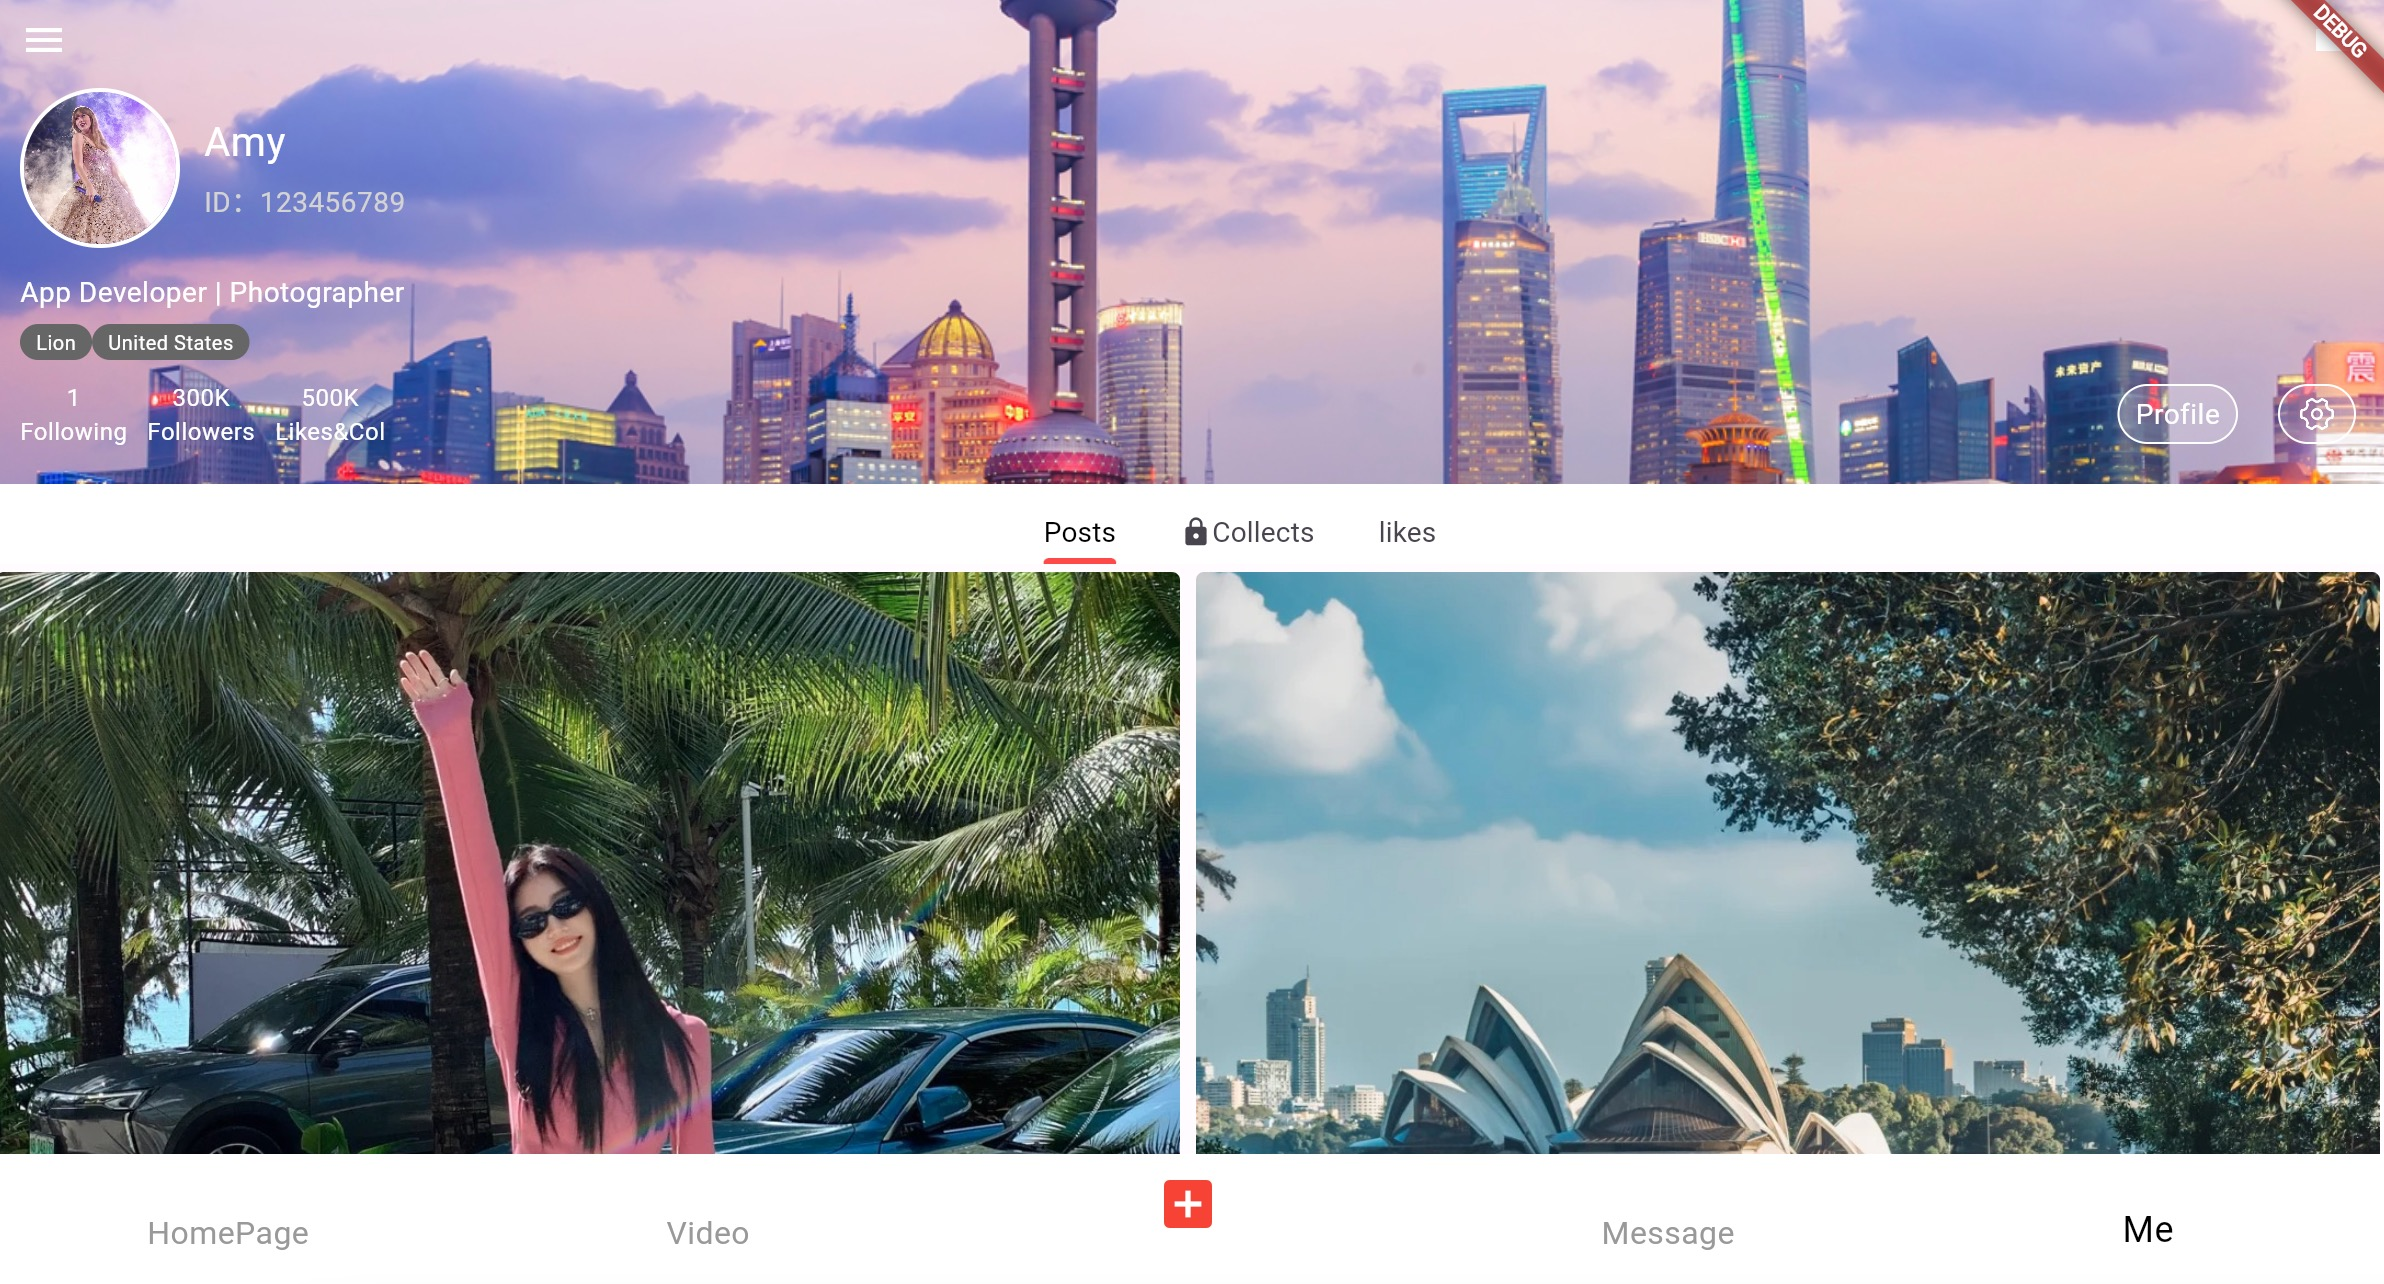
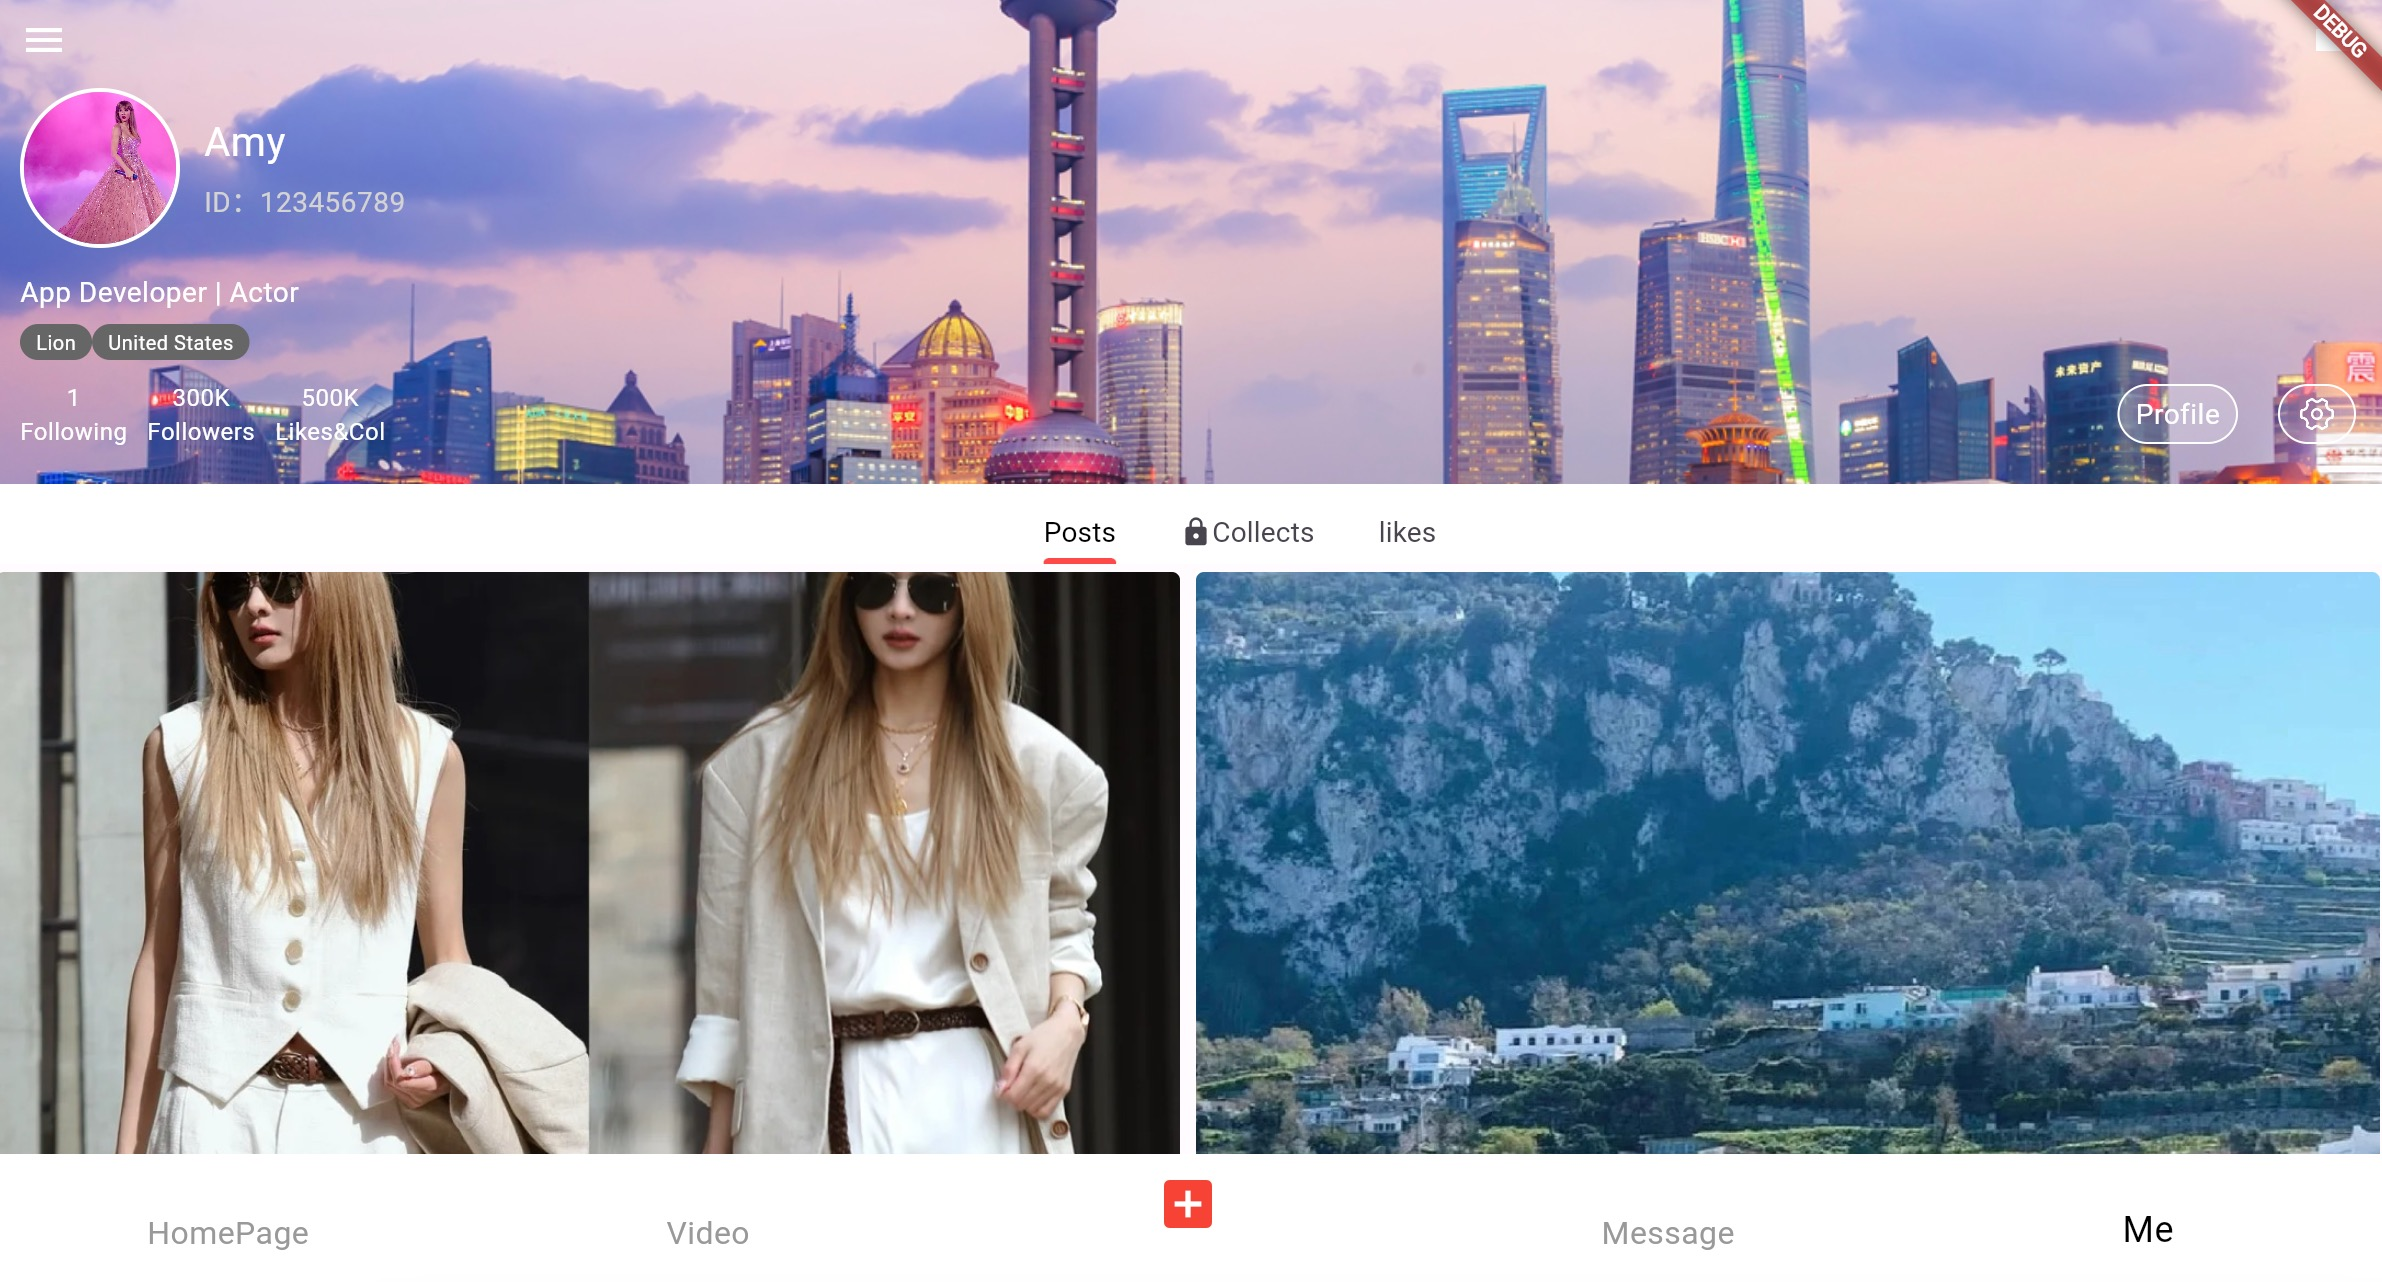
update

diff --git a/lib/mock/mock.dart b/lib/mock/mock.dart
@@ -7,18 +7,6 @@ class Mock {
   static List<CardData> indexData = [
     CardData(
       1,
-      1000,
-      // "https://www.xiaohongshu.com/explore/65d44051000000000b0230b4",
-      "assets/images/p1.png",
-      "Beautiful clothes for Spring",
-      "assets/images/b1.png",
-      "Alice",
-      1119,
-      10,
-      2,
-    ),
-    CardData(
-      2,
       1001,
       // "https://www.xiaohongshu.com/explore/65d85d550000000007006716",
       "assets/images/p2.png",
@@ -28,6 +16,18 @@ class Mock {
       2099,
       12,
       0,
+    ),
+    CardData(
+      2,
+      1000,
+      // "https://www.xiaohongshu.com/explore/65d44051000000000b0230b4",
+      "assets/images/p1.png",
+      "Beautiful clothes for Spring",
+      "assets/images/b1.png",
+      "Alice",
+      1119,
+      10,
+      2,
     ),
     CardData(
       3,
@@ -43,18 +43,6 @@ class Mock {
     ),
     CardData(
       4,
-      1004,
-      // "https://www.xiaohongshu.com/explore/65d2a990000000000702445f",
-      "assets/images/p4.png",
-      "South Italy",
-      "assets/images/b4.png",
-      "Doris",
-      888,
-      93,
-      17,
-    ),
-    CardData(
-      5,
       1005,
       // "https://www.xiaohongshu.com/explore/65dc4129000000000b00d78f",
       "assets/images/p5.png",
@@ -66,7 +54,7 @@ class Mock {
       5,
     ),
     CardData(
-      6,
+      5,
       1006,
       // "https://www.xiaohongshu.com/explore/65caf9cd000000000c007cdb",
       "assets/images/p6.png",
@@ -77,28 +65,23 @@ class Mock {
       63,
       6,
     ),
+    CardData(
+      6,
+      1004,
+      // "https://www.xiaohongshu.com/explore/65d2a990000000000702445f",
+      "assets/images/p4.png",
+      "South Italy",
+      "assets/images/b4.png",
+      "Doris",
+      888,
+      93,
+      17,
+    ),
   ];
 
   static List<CardDetailData> cardDetailDataList = [
     CardDetailData(
       1,
-      1000,
-      "Beautiful clothes for Spring",
-      "Wear beaufitul clothes in Spring, love the season!",
-      "assets/images/b1.png",
-      "Alice",
-      1199,
-      399,
-      2,
-      "2024-03-01 11:30:29",
-      "Los Angeles",
-      [
-        "assets/images/p1.png",
-        "assets/images/p11.png",
-      ],
-    ),
-    CardDetailData(
-      2,
       1001,
       "Old Money Outfit",
       "What is old money style?",
@@ -113,6 +96,23 @@ class Mock {
         "assets/images/p2.png",
         "assets/images/p21.png",
         "assets/images/p22.png",
+      ],
+    ),
+    CardDetailData(
+      2,
+      1000,
+      "Beautiful clothes for Spring",
+      "Wear beaufitul clothes in Spring, love the season!",
+      "assets/images/b1.png",
+      "Alice",
+      1199,
+      399,
+      2,
+      "2024-03-01 11:30:29",
+      "Los Angeles",
+      [
+        "assets/images/p1.png",
+        "assets/images/p11.png",
       ],
     ),
     CardDetailData(
@@ -134,23 +134,6 @@ class Mock {
     ),
     CardDetailData(
       4,
-      1004,
-      "South Italy",
-      "Never miss the south Italy!",
-      "assets/images/b4.png",
-      "Doris",
-      6987,
-      9999,
-      299,
-      "2023-08-09 18:54:28",
-      "Italy",
-      [
-        "assets/images/p4.png",
-        "assets/images/p41.png",
-      ],
-    ),
-    CardDetailData(
-      5,
       1005,
       "Kyoto Spring",
       "3 days trip in Kyoto",
@@ -166,7 +149,7 @@ class Mock {
       ],
     ),
     CardDetailData(
-      6,
+      5,
       1006,
       "Sydney Walk",
       "a beautiful day walking in Sydney",
@@ -179,6 +162,23 @@ class Mock {
       "Sydney",
       [
         "assets/images/p6.png",
+      ],
+    ),
+    CardDetailData(
+      6,
+      1004,
+      "South Italy",
+      "Never miss the south Italy!",
+      "assets/images/b4.png",
+      "Doris",
+      6987,
+      9999,
+      299,
+      "2023-08-09 18:54:28",
+      "Italy",
+      [
+        "assets/images/p4.png",
+        "assets/images/p41.png",
       ],
     ),
   ];

diff --git a/lib/pages/home_page/splash_screen.dart b/lib/pages/home_page/splash_screen.dart
@@ -1,0 +1,55 @@
+// import 'dart:async';
+
+// import 'package:flutter/material.dart';
+// import 'package:xhs/pages/home_page.dart';
+
+// class SplashScreen extends StatefulWidget {
+//   @override
+//   _SplashScreenState createState() => _SplashScreenState();
+// }
+
+// class _SplashScreenState extends State<SplashScreen> {
+//   @override
+//   void initState() {
+//     super.initState();
+//     Timer(Duration(seconds: 5), () {
+//       Navigator.of(context).pushReplacement(
+//         MaterialPageRoute(
+//           builder: (_) => HomePage(),
+//         ),
+//       );
+//     });
+//   }
+
+// @override
+//   Widget build(BuildContext context) {
+//     return Scaffold(
+//       backgroundColor: Colors.white,
+//       body: Center(
+//         child: RichText(
+//           textAlign: TextAlign.center,
+//           text: TextSpan(
+//             children: [
+//               TextSpan(
+//                 text: 'Little Red Book,\n',
+//                 style: TextStyle(
+//                   fontSize: 24,
+//                   fontWeight: FontWeight.bold,
+//                   color: Colors.red, 
+//                 ),
+//               ),
+//               TextSpan(
+//                 text: 'Your Life Guide',
+//                 style: TextStyle(
+//                   fontSize: 24,
+//                   fontWeight: FontWeight.bold,
+//                   color: Colors.black, 
+//                 ),
+//               ),
+//             ],
+//           ),
+//         ),
+//       ),
+//     );
+//   }
+// }

diff --git a/lib/main.dart b/lib/main.dart
@@ -8,12 +8,14 @@ import 'package:get/get.dart';
 import 'package:firebase_auth/firebase_auth.dart';
 import 'package:firebase_core/firebase_core.dart';
 import 'firebase_options.dart';
+import 'package:xhs/pages/home_page/splash_screen.dart';
 
 void main() {
   WidgetsFlutterBinding.ensureInitialized();
   runApp(const MyApp());
 }
 
+// deply to firebase:
 // void main() async {
 //   WidgetsFlutterBinding.ensureInitialized();
 //   // initialise app based on platform- web or mobile
@@ -59,6 +61,7 @@ class MyApp extends StatelessWidget {
           ),
           getPages: Routes.getPages,
           initialRoute: Pages.home,
+          // initialRoute: Pages.splash,
         );
       },
     );

diff --git a/lib/pages/mine_page/mine_page.dart b/lib/pages/mine_page/mine_page.dart
@@ -174,7 +174,7 @@ class MinePage extends StatelessWidget {
                     ),
                   ),
                 ),
-                const Text("App Developer | Photographer",
+                const Text("App Developer | Actor",
                     style: TextStyle(color: Colors.white)),
                 Padding(
                   padding: const EdgeInsets.only(top: 6.0, bottom: 10),

diff --git a/README.md b/README.md
@@ -5,13 +5,14 @@
 - The app utilizes Firebase for authentication, storage, and real-time database management to enhance responsiveness and ensure interactive and engaging user interfaces.
 - If this is helpful to you, plase kindly support me here: 
 
-<a href="https://venmo.com/u/lightandlight">
-  <img src="https://img.shields.io/badge/Donate-Venmo-ff69b4.svg" alt="Donate" width="200" height="40">
-</a>
+<p align="center">
+  <a href="https://venmo.com/u/lightandlight">
+    <img src="https://img.shields.io/badge/Donate-Venmo-ff69b4.svg" alt="Donate" width="200" height="40">
+  </a>
+</p>
 
-![Venmo QR Code](assets/images/venmo.png)
 
-##Installation
+## Installation
 To run the app locally, follow these steps:
 
 - Clone the repository to your local machine.
